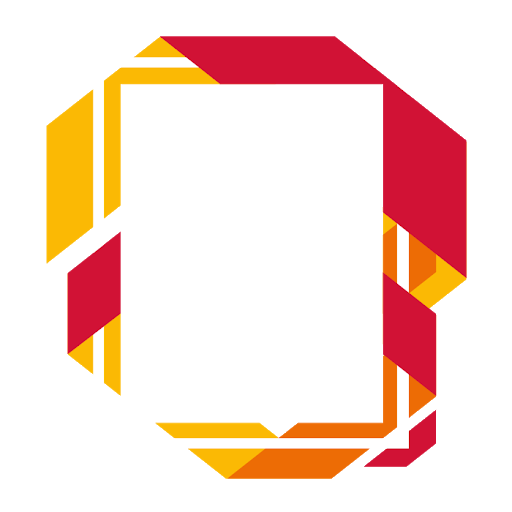
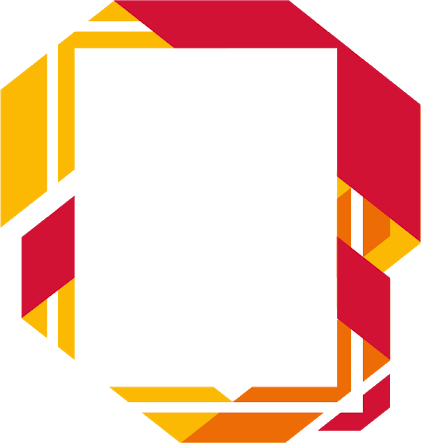
redesign of the header to take less space on mobile

diff --git a/src/_includes/mid_banner_ad.html b/src/_includes/mid_banner_ad.html
@@ -1,16 +1,11 @@
 <div id="middle-banner">
     <div class="container">
-        <div class="row">
-            <div class="col-12 text-center col-lg-2 text-lg-left align-self-center">
-                <img class="img-fluid g-width-50x g-width-auto--lg" src="{{ '/assets/custom/img/sc-london19.png' | prepend: site.baseurl}}" alt="SC London"/>
-            </div>
-            <div class="col-12 text-center col-lg-8 g-my-25">
-                <h4 class="g-font-weight-400 g-color-white">
-                    The place where passionate Software Craftspeople, <br/>
-                    Community, Experts & Thought Leaders come together
-                </h4>
-                <br/>
-                <a class="btn btn-md ban-btn-offblack text-uppercase" href="http://sc-london.com/#about" target="_blank">Book your ticket now!</a>
+        <div class="media g-my-15">
+            <img class="img-fluid g-width-50 g-mr-15" src="{{ '/assets/custom/img/sc-london19.png' | prepend: site.baseurl}}" alt="SC London"/>
+            <div class="media-body">
+                <h5 class="g-color-white">The place where passionate Software Craftspeople,
+                    Community, Experts & Thought Leaders come together</h5>
+                <a class="btn ban-btn-offblack text-uppercase" href="http://sc-london.com/#about" target="_blank">Book your ticket now!</a>
             </div>
         </div>
     </div>

diff --git a/src/_includes/publication.html b/src/_includes/publication.html
@@ -33,7 +33,7 @@
                     {% assign author = site.data.team | where: "name", page.author | first %}
                     {% if author and page.asset-type != "newsletter" %}
                         <div class="media">
-                            <img class="u-icon-v2 g-rounded-50 g-mr-30" src="{{ author.image  | prepend: site.baseurl }}" alt="{{ author.name }} Image">
+                            <img class="u-icon-v2 g-rounded-50 g-mr-15" src="{{ author.image  | prepend: site.baseurl }}" alt="{{ author.name }} Image">
                             <div class="media-body">
                                 <h5 class="g-color-black g-font-weight-600">{{ author.name | author_links}}</h5>
                                 <a class="g-font-weight-600 g-font-size-12"
